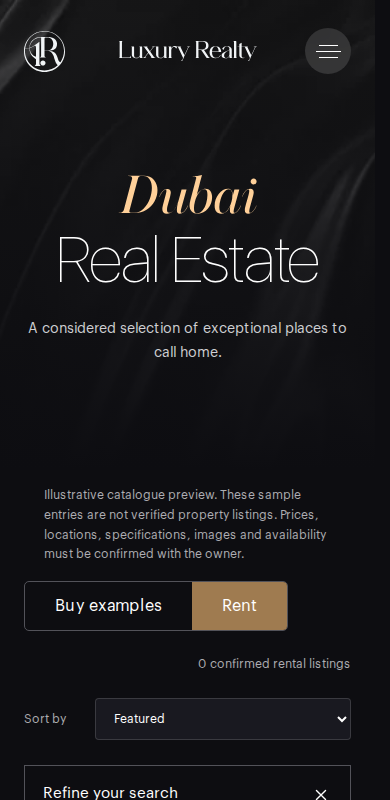
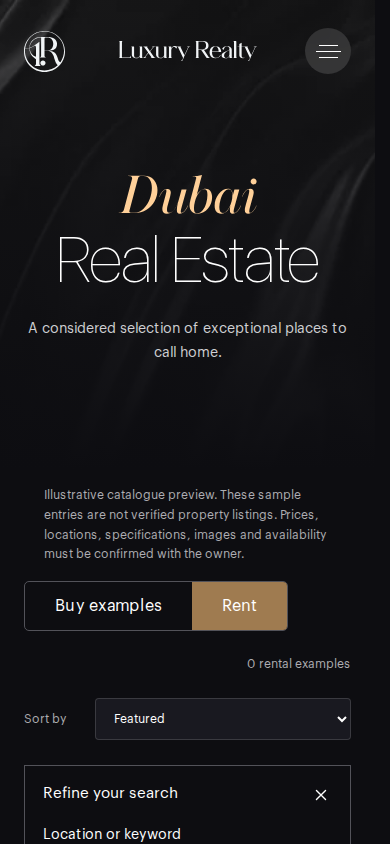
Align Luxury Realty catalogue with visible filters

diff --git a/src/scripts/site.ts b/src/scripts/site.ts
@@ -292,60 +292,41 @@ if(catalogue){
  const form=$<HTMLFormElement>('[data-filters]',catalogue)!;
  const grid=$<HTMLElement>('[data-property-grid]',catalogue)!;
  const cards=$$<HTMLElement>('[data-property-card]',grid);const sort=$<HTMLSelectElement>('[data-sort]',catalogue)!;
- const paramsAllowed=['purpose','q','type','beds','min','max','features','sort'];
- const minimumPrice=$<HTMLInputElement>('[name=min]',form)!,maximumPrice=$<HTMLInputElement>('[name=max]',form)!;
- const rangeError=$('[data-filter-error]',form),invalidRange=$<HTMLElement>('[data-invalid-range]',grid);
- function readPriceRange(){
-  const min=Math.max(0,Number(minimumPrice.value||0));const maxText=maximumPrice.value.trim();const max=maxText===''?Infinity:Math.max(0,Number(maxText));
-  const valid=min<=max;
-  if(rangeError)rangeError.textContent=valid?'':'The maximum price must be higher than or equal to the minimum.';
-  if(valid)maximumPrice.removeAttribute('aria-invalid');else maximumPrice.setAttribute('aria-invalid','true');
-  return {min,max,valid};
- }
+ const paramsAllowed=['purpose','q','sort'];
  function saveCatalogue(propertyId?:string){
   try{sessionStorage.setItem(catalogueStateKey,JSON.stringify({url:location.pathname+location.search,scrollY:Math.max(0,scrollY),propertyId}));}catch{/* Browsers may deny session storage; URL filters still work. */}
  }
  cards.forEach(card=>$<HTMLAnchorElement>('a',card)?.addEventListener('click',()=>saveCatalogue(card.dataset.id)));
  function loadQuery(){
   const params=new URLSearchParams(location.search);form.reset();
-  $$<HTMLInputElement>('input[name]',form).forEach(input=>{
-   const values=params.getAll(input.name).flatMap(value=>value.split(','));
-   if(input.type==='checkbox')input.checked=values.includes(input.value);
-   else if(input.type==='radio')input.checked=values.length?values.includes(input.value):input.value==='';
-   else if(input.name==='purpose')input.value=params.get('purpose')==='rent'?'rent':'buy';
-   else input.value=params.get(input.name)||'';
-  });
-  const requested=params.get('sort')||'featured';sort.value=['featured','price-low','price-high','name'].includes(requested)?requested:'featured';
+  const purpose=params.get('purpose')==='rent'?'rent':'buy';
+  const purposeInput=$<HTMLInputElement>('[name=purpose]',form);if(purposeInput)purposeInput.value=purpose;
+  const queryInput=$<HTMLInputElement>('[name=q]',form);if(queryInput)queryInput.value=(params.get('q')||'').trim().slice(0,100);
+  sort.value=params.get('sort')==='name'?'name':'featured';
+  // Old shared URLs may contain hidden legacy filters. Drop them rather than
+  // silently applying unsupported conditions that the visitor cannot inspect.
+  const canonical=new URLSearchParams();
+  if(purpose==='rent')canonical.set('purpose','rent');
+  if(queryInput?.value)canonical.set('q',queryInput.value);
+  if(sort.value==='name')canonical.set('sort','name');
+  const canonicalUrl=location.pathname+(canonical.size?'?'+canonical.toString():'');
+  if(canonicalUrl!==location.pathname+location.search)history.replaceState(history.state,'',canonicalUrl);
   applyFilters(false);
  }
  function applyFilters(update=true){
   const fd=new FormData(form);const q=String(fd.get('q')||'').trim().toLowerCase();
-  const purpose=String(fd.get('purpose')||'buy');const types=fd.getAll('type').map(String);
-  const features=fd.getAll('features').map(String);const bedrooms=Number(fd.get('beds')||0);
-  const {min,max,valid}=readPriceRange();
-  if(!valid){
-   // Editing an invalid draft must not replace the last valid result or URL.
-   // An invalid shared URL has no valid result to restore, so expose that state.
-   if(!update){
-    cards.forEach(card=>card.hidden=true);const empty=$<HTMLElement>('[data-no-results]',grid);if(empty)empty.hidden=true;
-    if(invalidRange)invalidRange.hidden=false;const countNode=$('[data-result-count]',catalogue!);if(countNode)countNode.textContent='Invalid price range';
-    $$<HTMLButtonElement>('.purpose-tabs button[data-purpose]',catalogue!).forEach(button=>button.setAttribute('aria-pressed',String(button.dataset.purpose===purpose)));
-    syncCurrentNavigation();
-   }
-   return false;
-  }
-  if(invalidRange)invalidRange.hidden=true;
+  const purpose=String(fd.get('purpose')||'buy');
+  sort.value=sort.value==='name'?'name':'featured';
   let count=0;
   const sorted=[...cards].sort((a,b)=>{
-   if(sort.value==='price-low')return Number(a.dataset.price)-Number(b.dataset.price);
-   if(sort.value==='price-high')return Number(b.dataset.price)-Number(a.dataset.price);
    if(sort.value==='name')return(a.dataset.search||'').localeCompare(b.dataset.search||'');
    return cards.indexOf(a)-cards.indexOf(b);
   });
   sorted.forEach(card=>{
-   const d=card.dataset;const p=Number(d.price);
-   const matchesBedrooms=!bedrooms||(bedrooms===6?Number(d.bedrooms)>=6:Number(d.bedrooms)===bedrooms);
-   const match=d.purpose===purpose&&(!q||(d.search||'').includes(q))&&(!types.length||types.includes(d.type||''))&&matchesBedrooms&&p>=min&&p<=max&&features.every(feature=>(d.features||'').split(',').includes(feature));
+   const d=card.dataset;
+   // Search only visible, editorial card text. Location, type, bedrooms,
+   // price and feature metadata are illustrative placeholders, not facts.
+   const match=d.purpose===purpose&&(!q||(d.search||'').includes(q));
    card.hidden=!match;if(match)count++;grid.append(card);
   });
   const empty=$<HTMLElement>('[data-no-results]',grid);if(empty){
@@ -353,16 +334,16 @@ if(catalogue){
    if(count===0){
     const title=$<HTMLElement>('[data-empty-title]',empty),copy=$<HTMLElement>('[data-empty-copy]',empty);
     if(purpose==='rent'){
-     if(title)title.textContent='No current rental collection';
-     if(copy)copy.textContent='This preview contains no verified rental listings. Request a tailored search to discuss current availability.';
+     if(title)title.textContent='No rental examples in this preview';
+     if(copy)copy.textContent='This illustrative catalogue contains no rental examples. Rental inventory and availability must be confirmed separately.';
     }else{
      if(title)title.textContent='No matching illustrative examples';
-     if(copy)copy.textContent='Try fewer filters or request a tailored selection. The catalogue entries are examples, not verified listings.';
+     if(copy)copy.textContent='Try a different visible title keyword or request a tailored selection. The catalogue entries are examples, not verified listings.';
     }
    }
    grid.append(empty);
   }
-  const countNode=$('[data-result-count]',catalogue!);if(countNode)countNode.textContent=count+' '+(purpose==='rent'?'confirmed rental listings':count===1?'illustrative example':'illustrative examples');
+  const countNode=$('[data-result-count]',catalogue!);if(countNode)countNode.textContent=purpose==='rent'?count+' rental examples':count+' illustrative examples';
   $$<HTMLButtonElement>('.purpose-tabs button[data-purpose]',catalogue!).forEach(button=>button.setAttribute('aria-pressed',String(button.dataset.purpose===purpose)));
   if(update){
    const params=new URLSearchParams();
@@ -374,14 +355,12 @@ if(catalogue){
   syncCurrentNavigation();return true;
  }
  form.addEventListener('submit',event=>{
-  event.preventDefault();if(!applyFilters()){$<HTMLInputElement>('[name=max]',form)?.focus();return;}
+  event.preventDefault();applyFilters();
   if(matchMedia('(max-width:900px)').matches){const disclosure=$<HTMLDetailsElement>('.filter-disclosure',catalogue!);if(disclosure)disclosure.open=false;grid.scrollIntoView({behavior:scrollBehavior(),block:'start'});}
  });
  let loadingQuery=false;
  form.addEventListener('reset',()=>{if(!loadingQuery)setTimeout(()=>{sort.value='featured';applyFilters();},0);});
  form.addEventListener('change',()=>applyFilters());
- // Render the range error while typing, before blur can move Apply under the pointer.
- [minimumPrice,maximumPrice].forEach(input=>input.addEventListener('input',readPriceRange));
  let searchTimer:ReturnType<typeof setTimeout>;
  $<HTMLInputElement>('[name=q]',form)?.addEventListener('input',()=>{clearTimeout(searchTimer);searchTimer=setTimeout(()=>applyFilters(),350);});
  sort.addEventListener('change',()=>applyFilters());

diff --git a/docs/verification/design-audit-2026-11-02/REVIEW-RECEIPT.md b/docs/verification/design-audit-2026-11-02/REVIEW-RECEIPT.md
@@ -3,25 +3,35 @@
 Baseline: `d48f91e4d007bc1fdf89114b70b34a2960b84a8a`.
 
 ## Changes in this worktree
+
 - All eight existing catalogue records retained but explicitly marked as illustrative, not verified live listings.
 - Unverified prices/specifications/location/availability removed from public cards and detail pages; unverified property features, maps, advisor portrait and brochure imagery withheld from the detail template.
 - Gallery alt/caption text no longer invents interior facts.
 - Search uses one live-update model; redundant Apply action removed.
-- Unverified type/bedroom/price/feature filters and price sorting hidden/removed; keyword search and Buy examples/Rent remain.
-- Rent empty state now states there are zero confirmed rental listings.
+- The catalogue now exposes only filters that exist in the illustrative UI: visible title/subtitle keyword search, Buy examples/Rent selection and Featured/Name sort.
+- Removed hidden type/bedroom/price/features controls and the obsolete price-range empty state. Old shared URLs containing those legacy parameters are canonicalized with `replaceState`; they no longer affect results. The original eight data records remain unchanged.
+- Removed unused unverified type/location/bedroom/price/features metadata attributes from the rendered property-card DOM.
+- Keyword search is restricted to the visible card title and subtitle. It no longer matches hidden placeholder location, property type or feature metadata.
+- Rent preview contains zero rental examples; the empty state explicitly says rental inventory and availability must be confirmed separately.
 - Fixed mobile catalogue disclaimer spacing after actual bounding-box test found a 14px overlap; final gap is 16px mobile / 24px desktop.
 
 ## Verification
-- Final build job `97327c23-99b4-47bc-bded-5aa8840a5e57`: succeeded.
-- Unit tests: 5 passed, 0 failed.
-- Final responsive smoke job `0247cb40-30d8-414c-a9db-384e21ff3ae9`: succeeded.
-- Widths: 320, 360, 390, 430, 768, 1180, 1440; 8 catalogue records retained; visible broken images 0; page errors 0; API requests 0.
-- Rent interaction: `0 confirmed rental listings`, truthful empty state visible.
-- Keyword search: count announced as illustrative examples.
-- Disclaimer-to-tabs gap measured: 16px at 320–430; 24px at 768–1440.
-- Selected screenshots visually reviewed: mobile home, catalogue, detail, final non-overlapping catalogue.
+
+- Final build after all code/markup changes: job `68eaa6b6-c782-48bc-b409-53f5d7262437` — succeeded.
+- Legacy URL, visible keyword search, reset and settled Rent header: job `b7cb6753-246a-4c31-ab02-1f23660f8a2f` — passed.
+  - Legacy `type/beds/min/max/features/sort=price-low` query canonicalized to visible `q=Dubai+Hills`; unsupported parameters discarded; no hidden legacy controls remain.
+  - A second old URL with legacy type/bed/price/features filters canonicalized to `/properties/` and shows all 8 examples.
+  - Searching visible title `illustrative residence 01` returns one result.
+  - Searching placeholder location `Dubai Hills Estate` or hidden placeholder feature `pool` returns no result.
+  - Reset restores all 8 examples, clears the query and returns URL to `/properties/`.
+  - No page errors.
+- Browser history/popstate legacy URL regression: job `e5d3ba52-58ce-49ea-bf5a-de06ce7cb0cf` — passed; unsupported filters stripped, 8 examples restored, sort reset to Featured, no legacy controls.
+- Rent header state was measured after a real scroll and 450ms transition settlement: scrollY 578; opaque header `rgb(13, 13, 17)`, bottom 66px; Featured select top 120.375px / bottom 162.375px; no overlap. The prior image that appeared to show an overlap was stale, not a current defect.
+- Refreshed actual Chromium 390px screenshots: `luxury-search-390.png`, `luxury-rent-empty-390.png`, `luxury-rent-settled-scroll-390.png`. All three were opened and visually inspected. The refreshed search screenshot shows the disclaimer and Buy/Rent controls separated correctly.
+- Earlier responsive evidence remains: widths 320, 360, 390, 430, 768, 1180, 1440; 8 catalogue records retained; visible broken images 0; page errors 0; API requests 0. This was not rerun because the current changes are confined to catalogue query semantics and markup.
 
 ## Review boundary / remaining
+
 - `npm ci` reported 11 dependency advisories (3 moderate, 8 high); this pass did not perform dependency remediation or claim security clearance.
 - Inventory, photography-to-listing mapping, actual prices and legal/operator details remain unverified; records are examples, not offers. No records deleted.
 - No real enquiry, backend/credential change, or publication.
